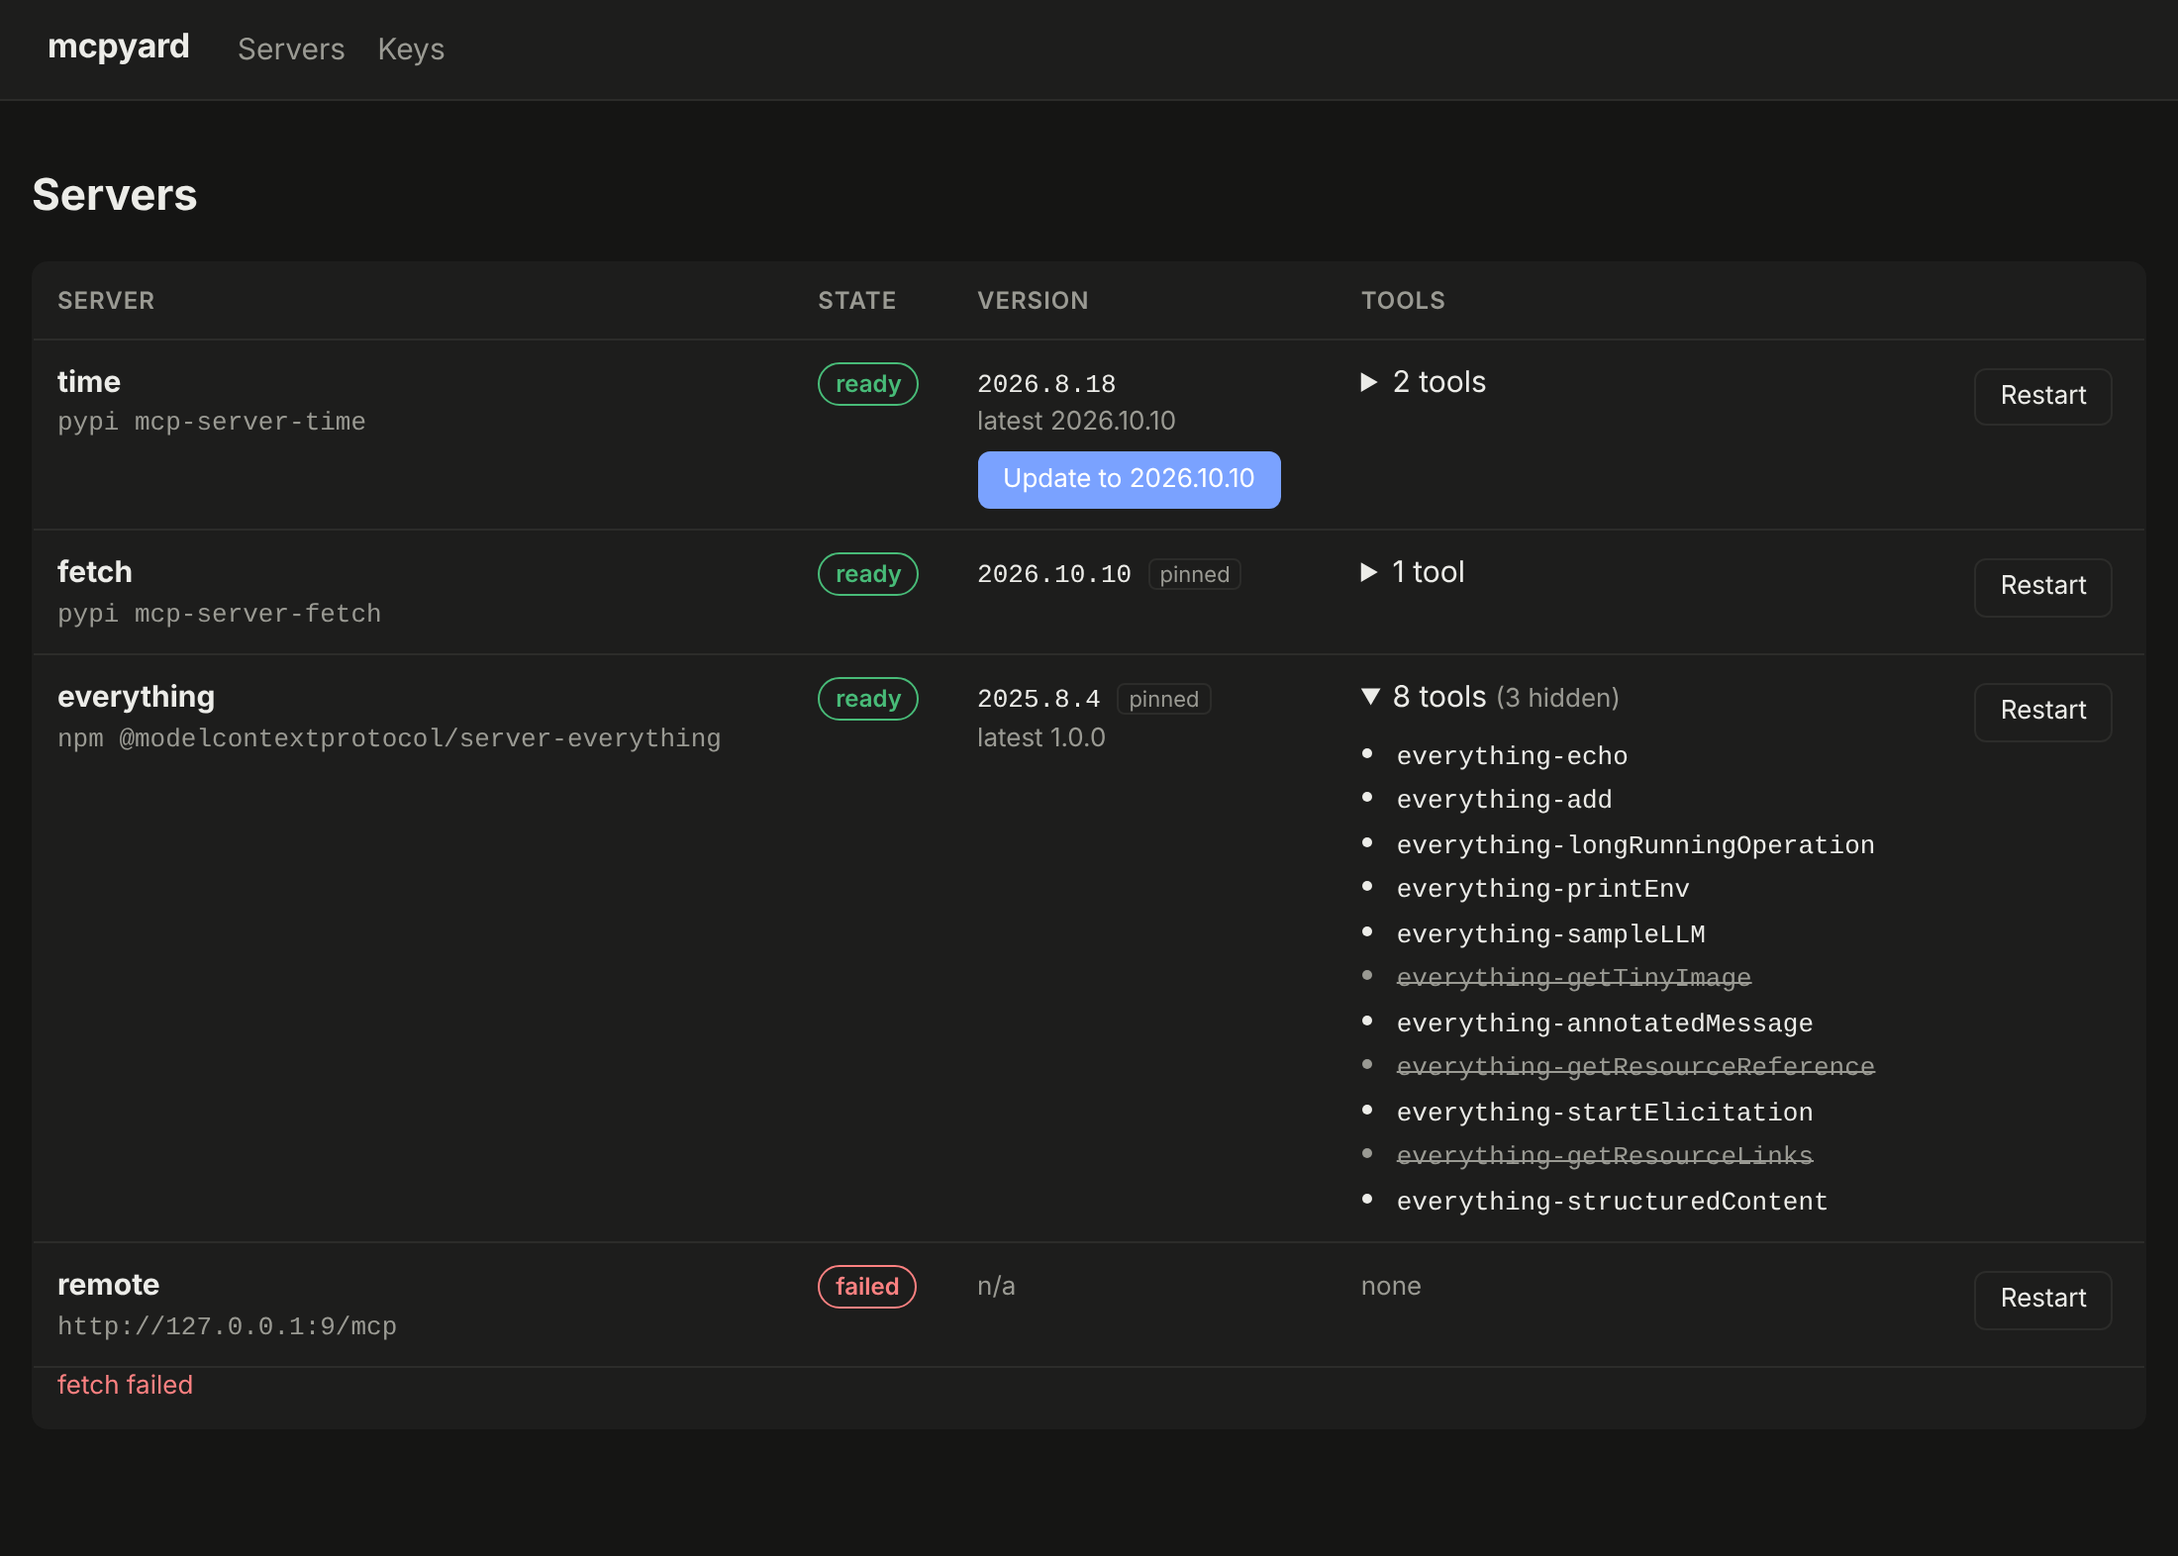
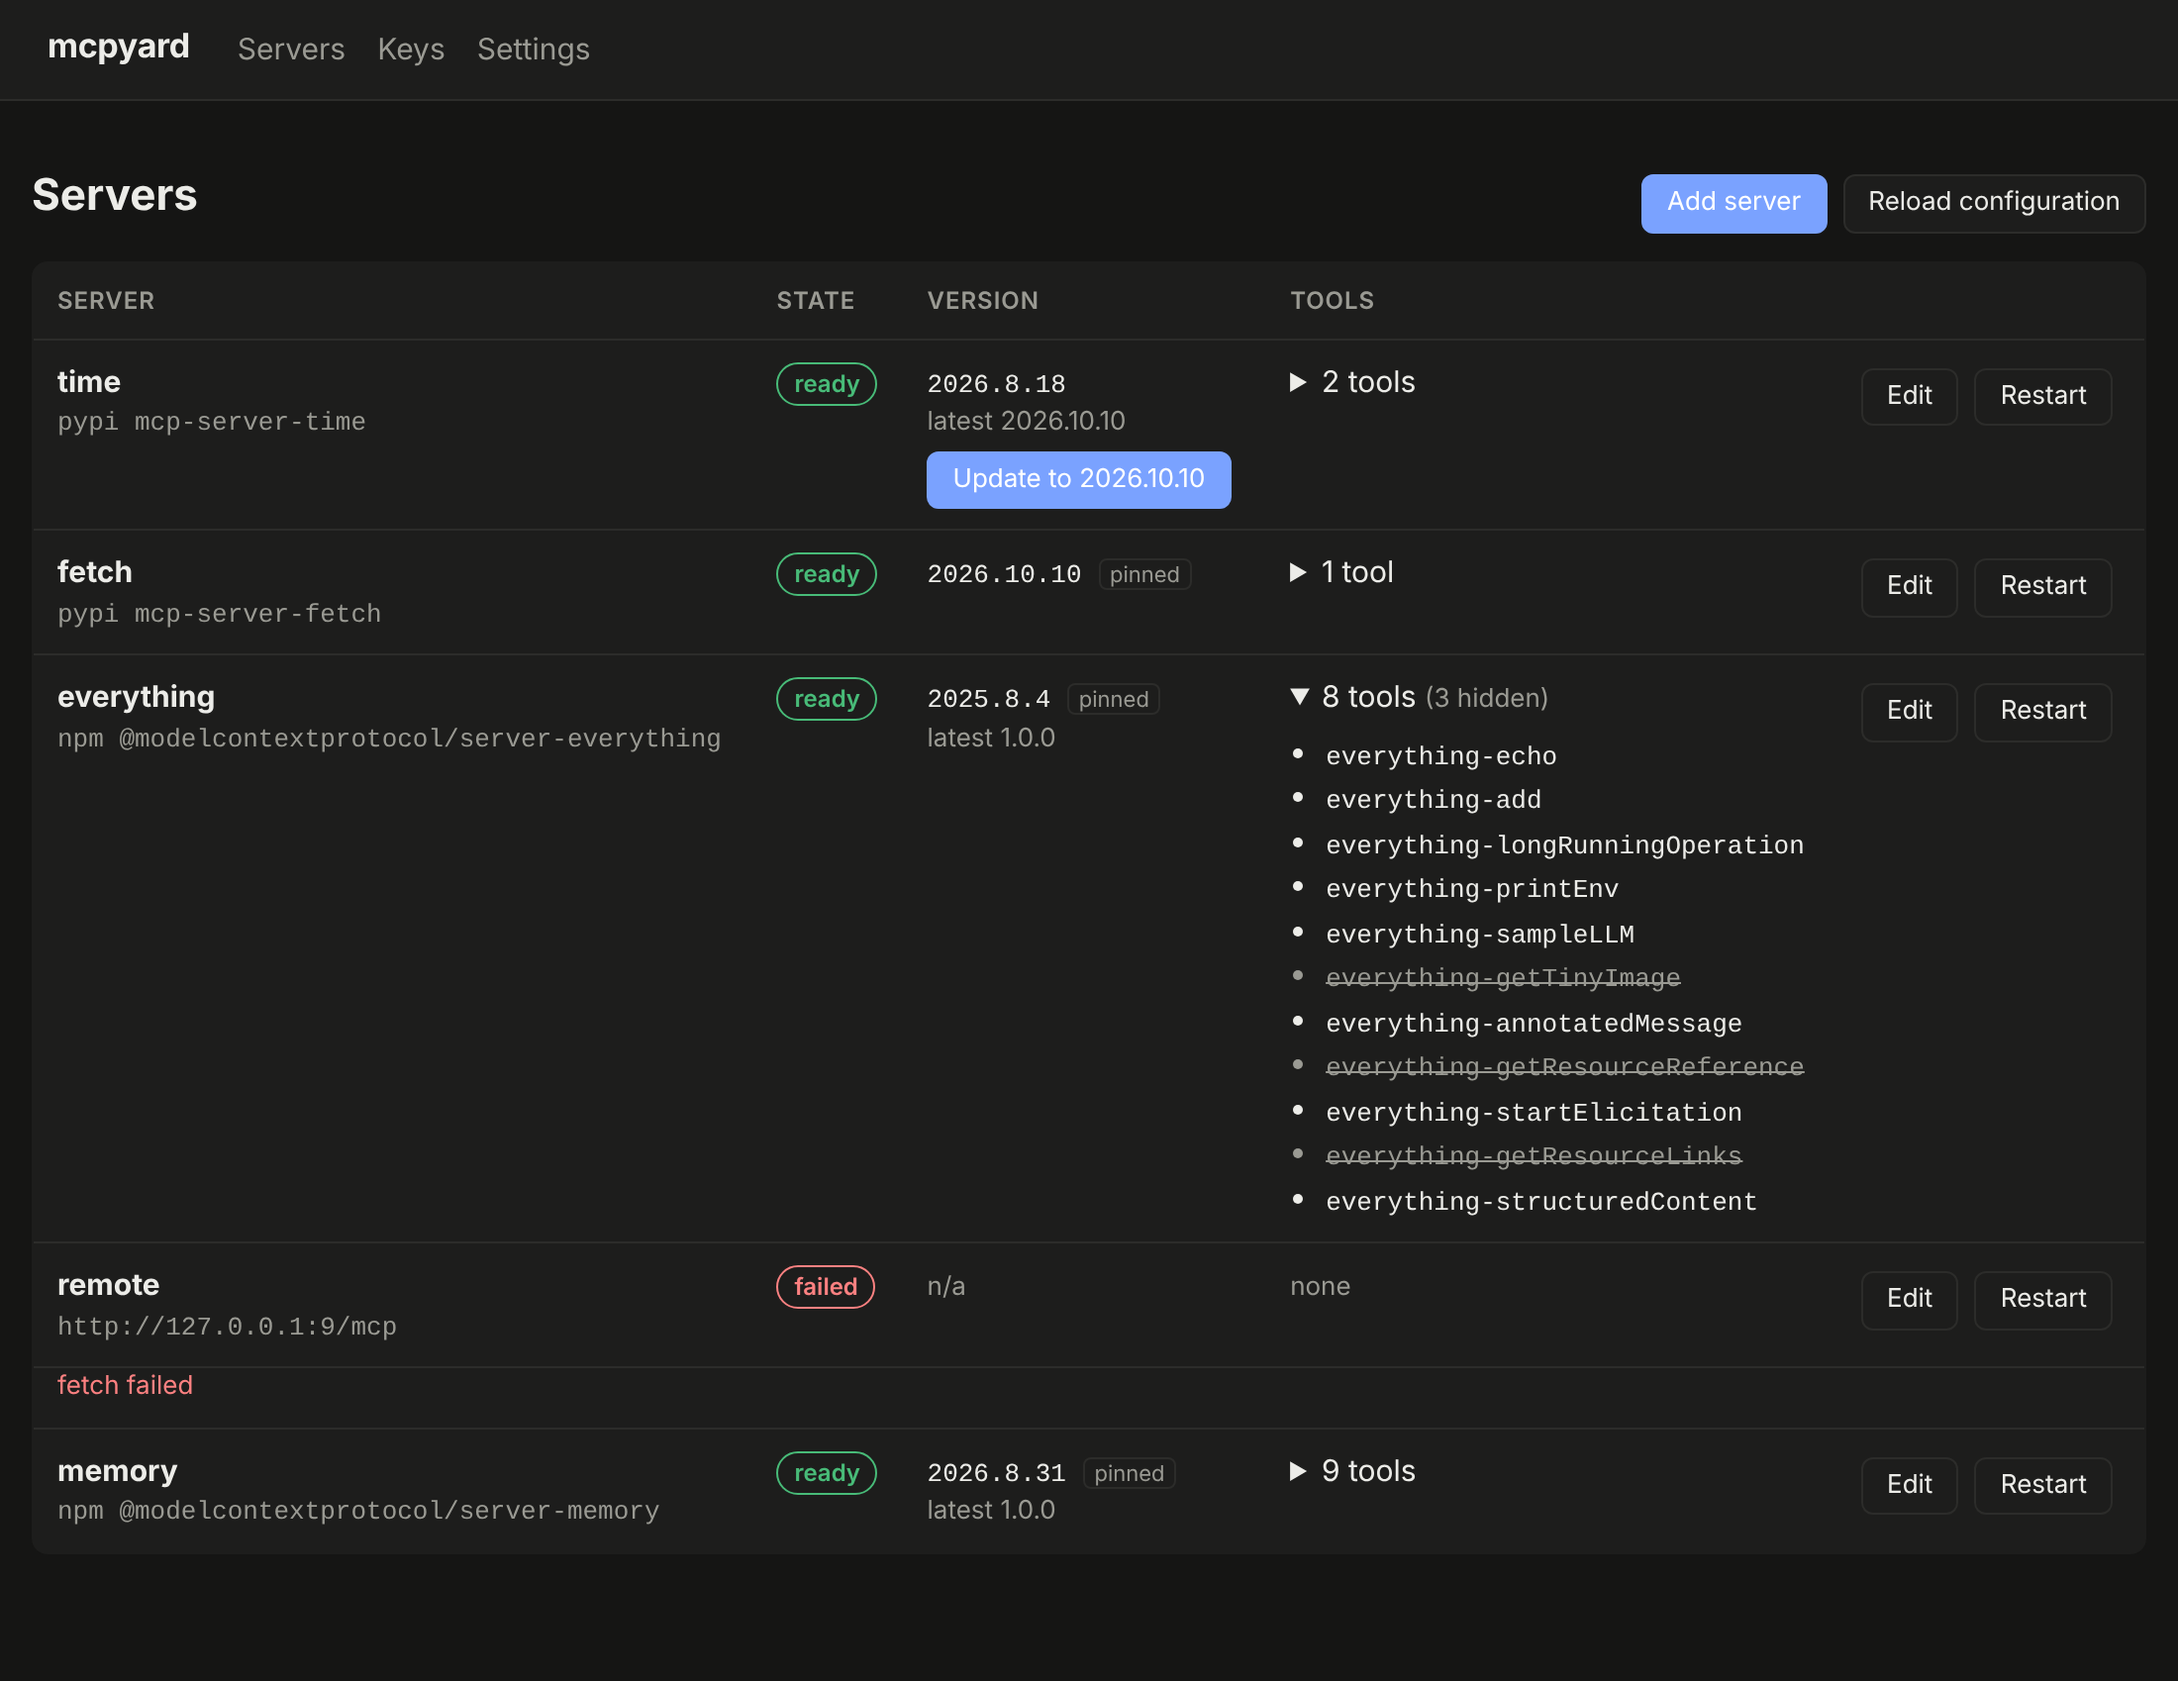
docs: settings page, editable server file and quoting references

diff --git a/docs/index.html b/docs/index.html
@@ -14,7 +14,7 @@ layout_class: home
   </p>
   <div class="snippet">
 {% highlight bash %}
-docker run -d -p 3000:3000 -v ./mcpyard.yaml:/config/mcpyard.yaml:ro \
+docker run -d -p 3000:3000 -v ./mcpyard.yaml:/config/mcpyard.yaml \
   -v mcpyard-data:/data ghcr.io/cedhuf/mcpyard:latest
 {% endhighlight %}
   </div>

diff --git a/docs/configuration.md b/docs/configuration.md
@@ -43,6 +43,10 @@ servers:
 
 Server names use letters, digits, `_` and `-`. They prefix every tool the server exposes.
 
+You can also add, edit and remove servers from the web UI: it rewrites this file, keeping your
+comments and `${VAR}` references, and refuses any change that would not parse. See
+[Web UI](web-ui.html#servers-from-the-ui).
+
 ## Server kinds
 
 Each server has **exactly one** of these:
@@ -69,6 +73,14 @@ Packages are covered in [Packages and updates](packages.html).
 `${VAR}` is replaced from the hub's environment anywhere in the file, and a missing variable stops the
 hub at startup rather than starting a server with an empty token.
 
+Inside `{ }` or `[ ]`, quote the reference, or YAML reads the `{` of `${` as a new map:
+
+```yaml
+env: { TOKEN: "${TOKEN}" }   # quoted inside { }
+env:
+  TOKEN: ${TOKEN}            # block style needs no quotes
+```
+
 Spawned servers **never inherit the hub's environment**. They get a minimal set (`PATH`, `HOME` and
 the like) plus their own `env`, so a token meant for one server cannot leak to another.
 
@@ -94,6 +106,11 @@ warns at startup about any tool that would cross that line. Keep server names sh
 | `OIDC_CLIENT_SECRET` | | Client secret; omit for a public client. |
 | `OIDC_ALLOWED_GROUPS` | | Comma-separated groups allowed to sign in. |
 | `MCPYARD_UI_AUTH` | `oidc` | `none` turns web UI sign-in off. |
+| `MCPYARD_ADMIN_ENDPOINT` | `true` | `false` turns `/admin/mcp` off. Also on the Settings page. |
+
+`MCPYARD_ADMIN_ENDPOINT` and `MCPYARD_VERSION_CHECK_HOURS` can instead be set on the web UI's
+**Settings** page, saved in `$MCPYARD_DATA_DIR/settings.json`. When the variable is set, it wins and
+the page shows the setting locked. Everything else on this list is read once at startup.
 
 ## Reloading
 

diff --git a/docs/web-ui.md b/docs/web-ui.md
@@ -13,6 +13,33 @@ disables and deletes keys. It refreshes itself every few seconds.
   <img src="assets/servers-light.png" alt="The servers page of the web UI">
 </picture>
 
+## Servers from the UI
+
+**Add server** and **Edit** open a form for any kind of server: npm or PyPI package, command, or
+remote URL, with its arguments, environment, headers and tool filters. Saving rewrites the server
+file and restarts only that server.
+
+- Comments elsewhere in the file and `${VAR}` references are kept as written.
+- The whole file must still be valid, or nothing is written and the error is shown.
+- If the file is read-only (a `:ro` mount, or not writable by uid 1000), the forms are shown locked
+  and the file stays yours to edit by hand; **Reload configuration** applies it.
+
+## Settings
+
+The **Settings** page gathers what is not a server or a key:
+
+- **Admin endpoint**: on or off, the URL to give agents, and how many admin keys exist.
+- **Updates**: how often registries are checked.
+- **Environment**: every startup variable with its value, behind a padlock. Secrets are masked.
+
+A setting whose environment variable is set shows a padlock and cannot be changed from the page:
+the environment always wins.
+
+<picture>
+  <source srcset="assets/settings-dark.png" media="(prefers-color-scheme: dark)">
+  <img src="assets/settings-light.png" alt="The settings page, with the check period locked by the environment">
+</picture>
+
 ## Sign-in with OpenID Connect
 
 There is no local password. The UI signs you in through your identity provider with the

diff --git a/README.md b/README.md
@@ -53,7 +53,7 @@ servers:
 
 ```bash
 docker run -d --name mcpyard -p 127.0.0.1:3000:3000 -e MCPYARD_UI_AUTH=none \
-  -v ./mcpyard.yaml:/config/mcpyard.yaml:ro -v mcpyard-data:/data \
+  -v ./mcpyard.yaml:/config/mcpyard.yaml -v mcpyard-data:/data \
   ghcr.io/cedhuf/mcpyard:latest
 ```
 
@@ -78,7 +78,7 @@ services:
     ports: ["127.0.0.1:3000:3000"]   # put a TLS reverse proxy in front
     env_file: .env
     volumes:
-      - ./mcpyard.yaml:/config/mcpyard.yaml:ro
+      - ./mcpyard.yaml:/config/mcpyard.yaml   # add :ro to forbid editing servers from the UI
       - mcpyard-data:/data
 
 volumes:
@@ -100,9 +100,13 @@ OIDC_CLIENT_SECRET=change-me
 ```
 
 Start it with `docker compose up -d`, or `podman compose up -d` (`podman-compose` works too). On
-SELinux hosts such as Fedora or RHEL, label the bind mount: `./mcpyard.yaml:/config/mcpyard.yaml:ro,Z`.
+SELinux hosts such as Fedora or RHEL, label the bind mount: `./mcpyard.yaml:/config/mcpyard.yaml:Z`.
 
-After editing `mcpyard.yaml`, apply it without a restart from the web UI, or with
+The container runs as uid 1000: for the web UI to add and edit servers, the file must be writable by
+it (`chown 1000 mcpyard.yaml`). Settings that are not in the environment, such as turning the admin
+endpoint off, live on the UI's **Settings** page.
+
+After editing `mcpyard.yaml` by hand, apply it without a restart from the web UI, or with
 `docker kill -s HUP mcpyard` (`podman kill -s HUP ...`): only the servers you changed restart.
 
 Where to go next:

diff --git a/docs/deployment.md b/docs/deployment.md
@@ -18,7 +18,7 @@ services:
     ports: ["127.0.0.1:3000:3000"]
     env_file: .env
     volumes:
-      - ./mcpyard.yaml:/config/mcpyard.yaml:ro
+      - ./mcpyard.yaml:/config/mcpyard.yaml
       - mcpyard-data:/data
 
 volumes:
@@ -39,11 +39,12 @@ SEARCH_TOKEN=...
 
 | Path | Contents |
 | --- | --- |
-| `/config/mcpyard.yaml` | The server file, read-only is fine. |
+| `/config/mcpyard.yaml` | The server file. Writable by uid 1000 to edit servers from the UI; mount it `:ro` to forbid that. |
 | `/data/keys.json` | Hashed keys and their scopes. |
 | `/data/versions.json` | Hub-owned package versions. |
 | `/data/packages/` | Installed packages, one directory per version. |
 | `/data/python/`, `/data/cache/` | Python interpreters and package caches. |
+| `/data/settings.json` | Settings saved from the UI's Settings page. |
 | `/data/session.key` | Signs web UI sessions. |
 
 Keep `/data` on a volume: upgrading the image then reuses every installed package. The image runs as

diff --git a/docs/getting-started.md b/docs/getting-started.md
@@ -28,12 +28,13 @@ For a first try on your own machine, run it without sign-in and only on localhos
 docker run -d --name mcpyard \
   -p 127.0.0.1:3000:3000 \
   -e MCPYARD_UI_AUTH=none \
-  -v ./mcpyard.yaml:/config/mcpyard.yaml:ro \
+  -v ./mcpyard.yaml:/config/mcpyard.yaml \
   -v mcpyard-data:/data \
   ghcr.io/cedhuf/mcpyard:latest
 ```
 
-The first start installs each package into the data volume; later starts reuse it. Follow along with
+The container runs as uid 1000; if you want to add servers from the web UI, make the file writable by
+it with `chown 1000 mcpyard.yaml`. The first start installs each package into the data volume; later starts reuse it. Follow along with
 `docker logs -f mcpyard`.
 
 > `MCPYARD_UI_AUTH=none` lets anyone who reaches the port manage the hub. For anything beyond a local

diff --git a/docs/admin.md b/docs/admin.md
@@ -7,6 +7,10 @@ title: Admin endpoint
 `/admin/mcp` is a second MCP endpoint, separate from `/mcp`, for agents that watch and nurse the hub.
 Only admin keys reach it, and admin keys reach nothing else.
 
+It is on by default and does nothing until an admin key exists. Turn it off on the web UI's
+**Settings** page, which also shows its URL, or with `MCPYARD_ADMIN_ENDPOINT=false`; it then answers
+`404`.
+
 ## Connect
 
 Create a key of kind **admin** in the web UI, then:
